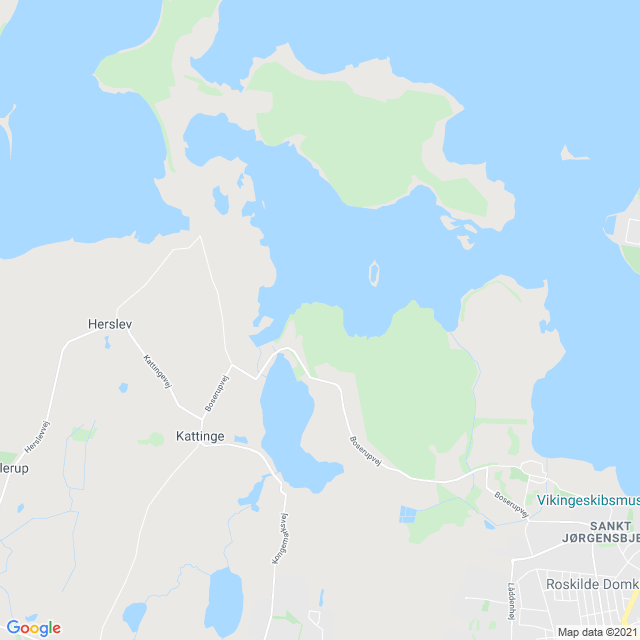
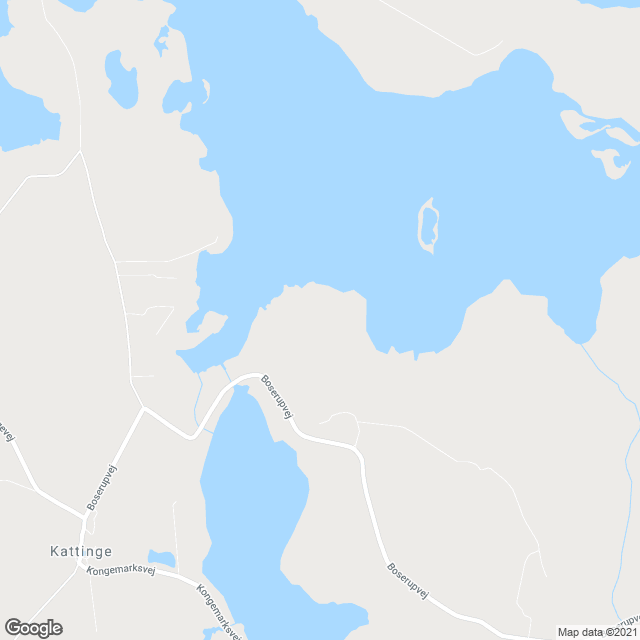
Zoom functionality implemented

diff --git a/hive/GUI/main.py b/hive/GUI/main.py
@@ -8,6 +8,7 @@ import mapHandler
 # Object Lists
 Points = []
 PointDenominator = ["A", "B", "C", "D"]
+Map = []
 
 
 def limitPoint(event):
@@ -35,6 +36,8 @@ def AngleChecker():
     Using Law of Cosines to calculate angles in triangel ABC and CDA
     anc checking that theese angles are not >= 180
     """
+    treshold = 160
+
     AB = sqrt((Points[1].trueX - Points[0].trueX) ** 2 + (Points[1].trueY - Points[0].trueY) ** 2)
     BC = sqrt((Points[2].trueX - Points[1].trueX) ** 2 + (Points[2].trueY - Points[1].trueY) ** 2)
     CD = sqrt((Points[3].trueX - Points[2].trueX) ** 2 + (Points[3].trueY - Points[2].trueY) ** 2)
@@ -60,9 +63,9 @@ def AngleChecker():
         angleD = degrees(acos((DA ** 2 + BD ** 2 - AB ** 2) / (2 * DA * BD))) + degrees(
             acos((CD ** 2 + BD ** 2 - BC ** 2) / (2 * CD * BD)))
 
-    if angleA >= 180 or angleB >= 180 or angleC >= 180 or angleD >= 180:
+    if angleA >= treshold or angleB >= treshold or angleC >= treshold or angleD >= treshold:
         deleteLatestPoint()
-        showinfo("Error", "Sorry, one or more angles are greater than 180 degrees")
+        showinfo("Error", "Sorry, one or more angles are greater than " + str(treshold) +  " degrees")
     else:
         return True
 
@@ -90,9 +93,30 @@ def update():
 
 
 def requestMap():
-    obj = mapHandler.Map()
-    obj.requestMap()
+    Map.append(mapHandler.Map())
+    Map[0].requestMap()
     update()
+
+def zoomIn():
+    if len(Map) == 0:
+        Map.append(mapHandler.Map())
+        Map[0].requestMap()
+        update()
+    else:
+        Map[0].zoom += 1
+        Map[0].requestMap()
+        update()
+
+def zoomOut():
+    if len(Map) == 0:
+        Map.append(mapHandler.Map())
+        Map[0].requestMap()
+        update()
+    else:
+        Map[0].zoom -= 1
+        Map[0].requestMap()
+        update()
+
 
 
 root = tk.Tk()
@@ -100,14 +124,17 @@ root.state("zoomed")
 
 img = ImageTk.PhotoImage(Image.open("map.png"))
 
-canvas = tk.Canvas(root, height=800, width=800)
-image_container = canvas.create_image(800, 800, anchor="nw", image=img)
+canvas = tk.Canvas(root, height=640, width=640)
+image_container = canvas.create_image(640, 640, image=img)
 canvas.pack(side="top", anchor="nw")
 canvas.bind("<Button-1>", limitPoint)
+
 
 tk.Button(root, text="Clear", command=clearCanvas).pack(side="left", anchor="nw")
 tk.Button(root, text="Delete last point", command=deleteLatestPoint).pack(side="left", anchor="nw")
 tk.Button(root, text="Estimate", command=estimate).pack(side="left", anchor="nw")
 tk.Button(root, text="NOT FREE", command=requestMap, bg="red").pack(side="left", anchor="nw")
+tk.Button(root, text="+", command=zoomIn).pack(side="left", anchor="nw")
+tk.Button(root, text="-", command=zoomOut).pack(side="left", anchor="nw")
 
 root.mainloop()

diff --git a/hive/GUI/mapHandler.py b/hive/GUI/mapHandler.py
@@ -3,8 +3,8 @@ import config
 
 class Map:
     size = 800
-    long = 12.019524
     lat = 55.669703
+    long = 12.019524
     zoom = 13
     key = config.SECRET
 
@@ -13,6 +13,6 @@ class Map:
 
     def requestMap(self):
         # https://maps.googleapis.com/maps/api/staticmap?center=Berkeley,CA&zoom=14&size=400x400&key=
-        image = requests.get("https://maps.googleapis.com/maps/api/staticmap?center=" + str(self.lat) + "," + str(self.long) + "&zoom=" + str(self.zoom) + "&size=" + str(self.size) + "x" + str(self.size) + "&key=" + str(self.key))
+        image = requests.get("https://maps.googleapis.com/maps/api/staticmap?center=" + str(self.lat) + "," + str(self.long) + "&zoom=" + str(self.zoom) + "&size=" + str(self.size) + "x" + str(self.size) + "&style=feature:poi|visibility:off" + "&key=" + str(self.key))
         with open("map.png", "wb") as img:
             img.write(image.content)
